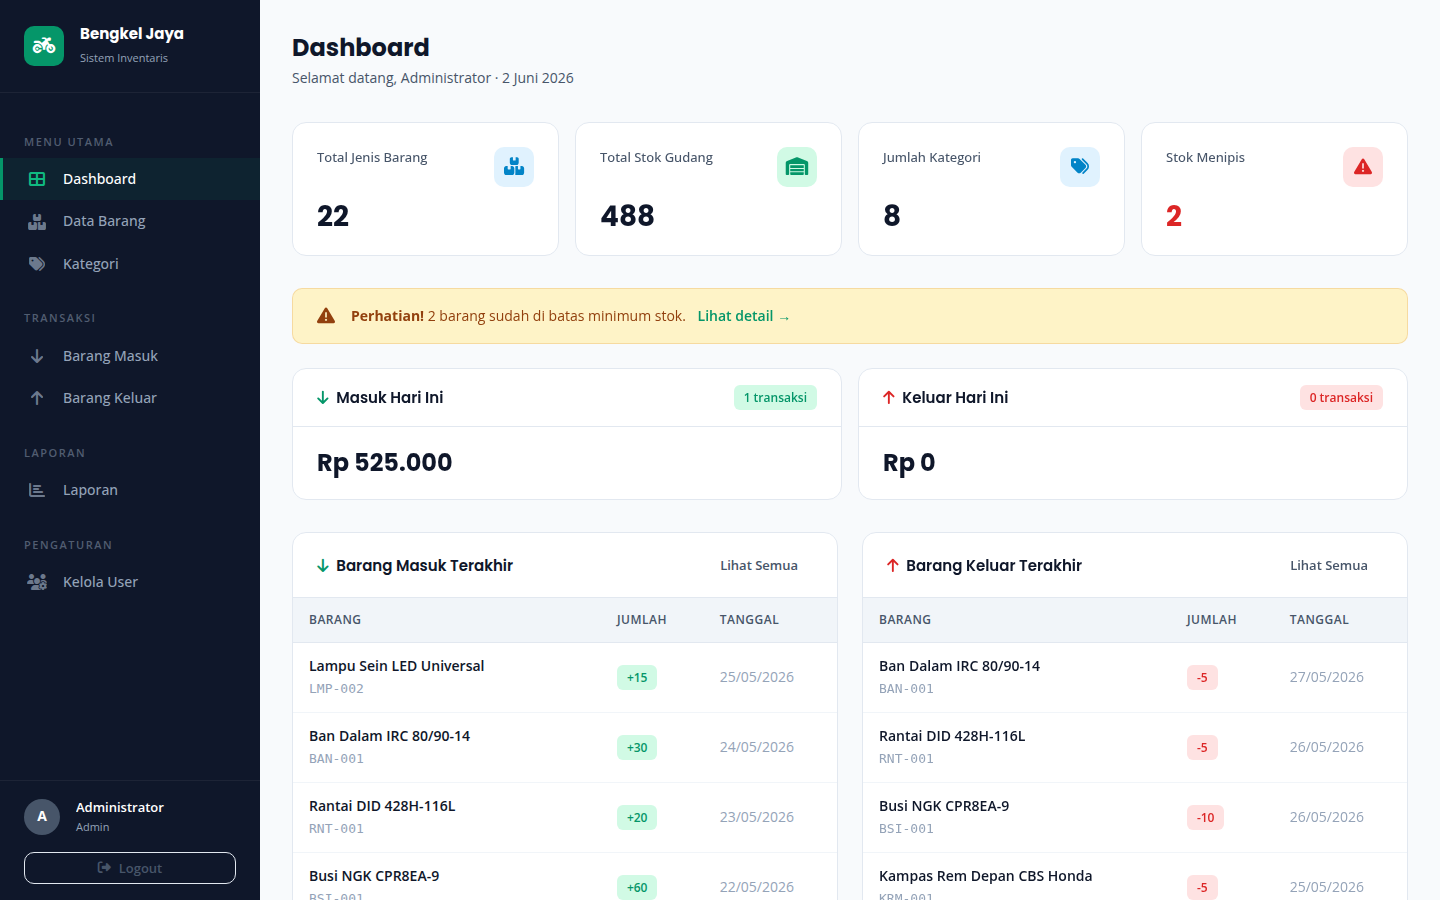
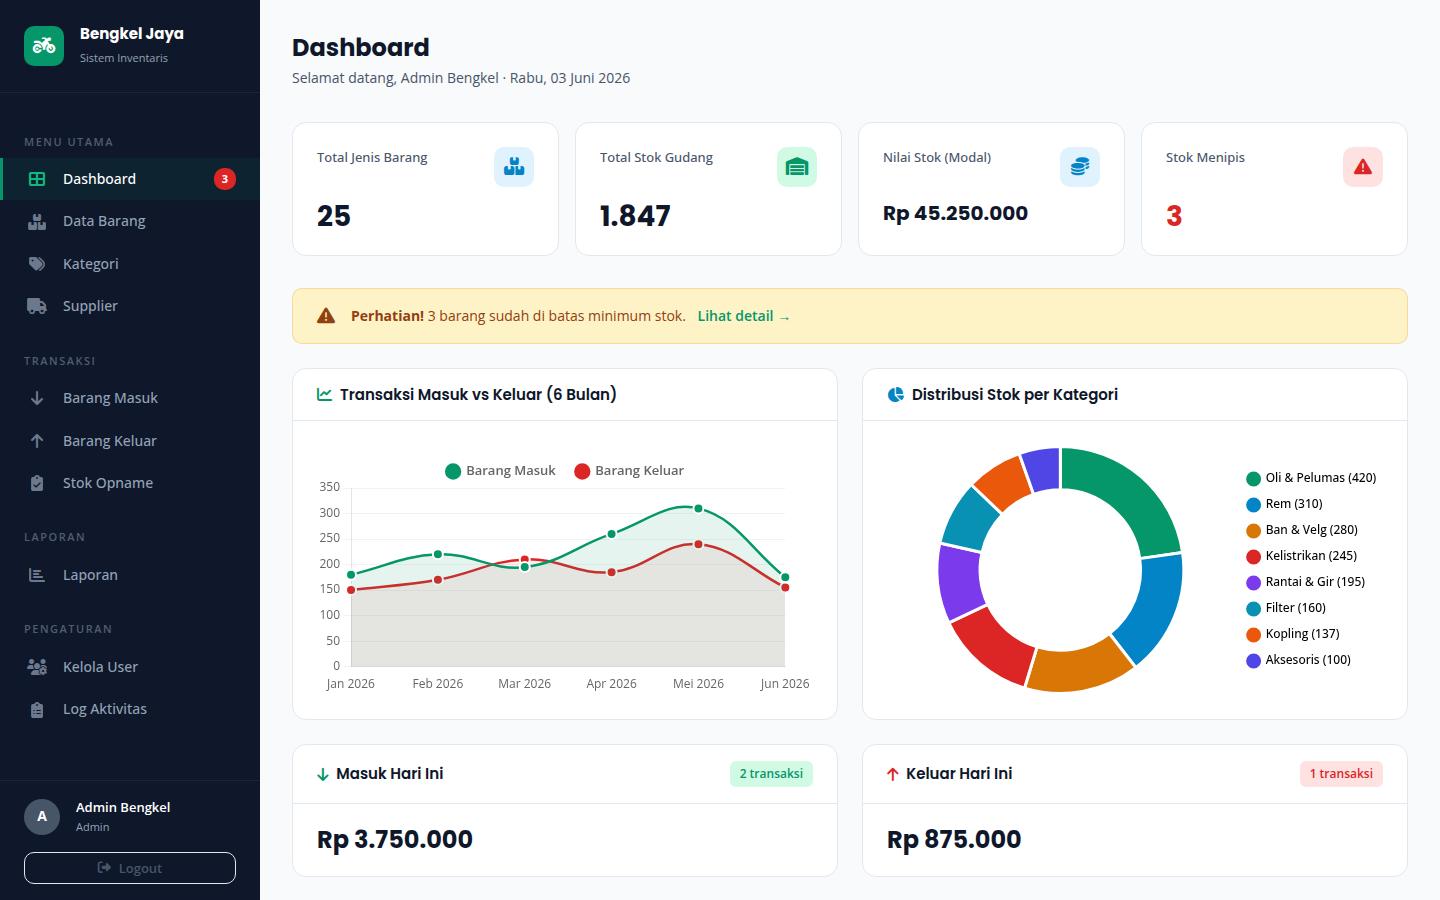
docs: add 2 fresh screenshots (dashboard + laporan) to README
- Updated dashboard.png with Chart.js charts visible
- Added laporan.png showing detail transaksi view with export toolbar
- Both screenshots use current design system (green accent, dark sidebar)
- Removed old screenshot

diff --git a/README.md b/README.md
@@ -17,9 +17,17 @@
 
 ## Preview
 
+### Dashboard
+
 ![Dashboard](assets/img/dashboard.png)
 
-> Dashboard utama — ringkasan stok, grafik penjualan bulanan, distribusi per kategori, dan peringatan stok menipis.
+> Ringkasan stok, grafik penjualan bulanan (Chart.js), distribusi per kategori, dan peringatan stok menipis.
+
+### Laporan & Export
+
+![Laporan](assets/img/laporan.png)
+
+> Detail transaksi masuk/keluar per bulan, filter bulan & tahun, export ke Excel/CSV, PDF, atau langsung print.
 
 ---
 
